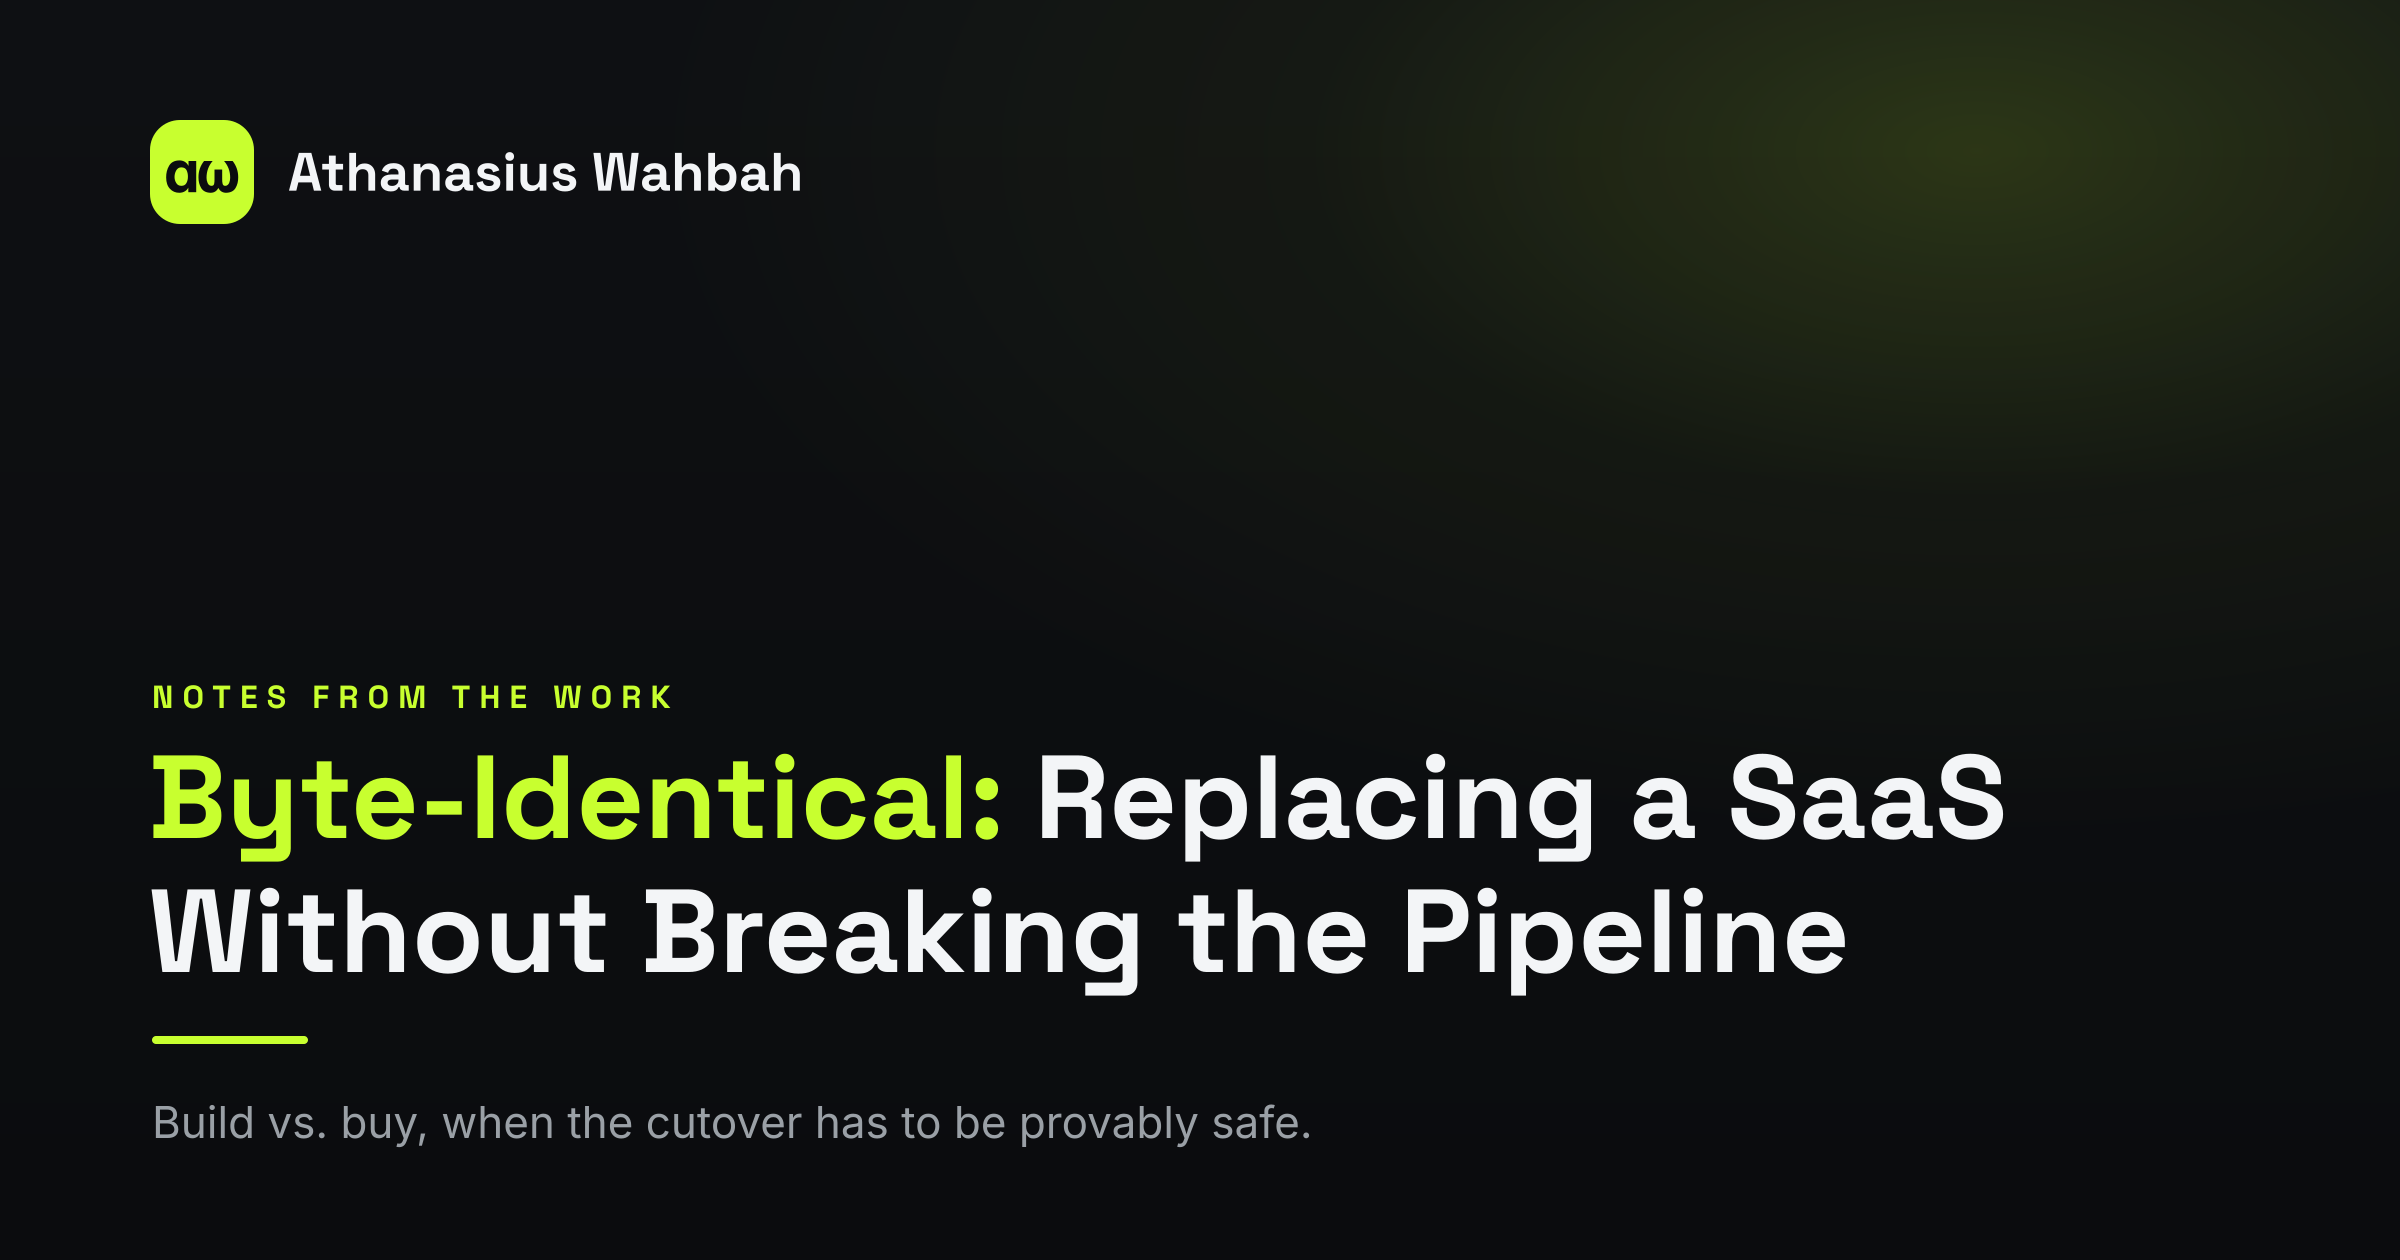
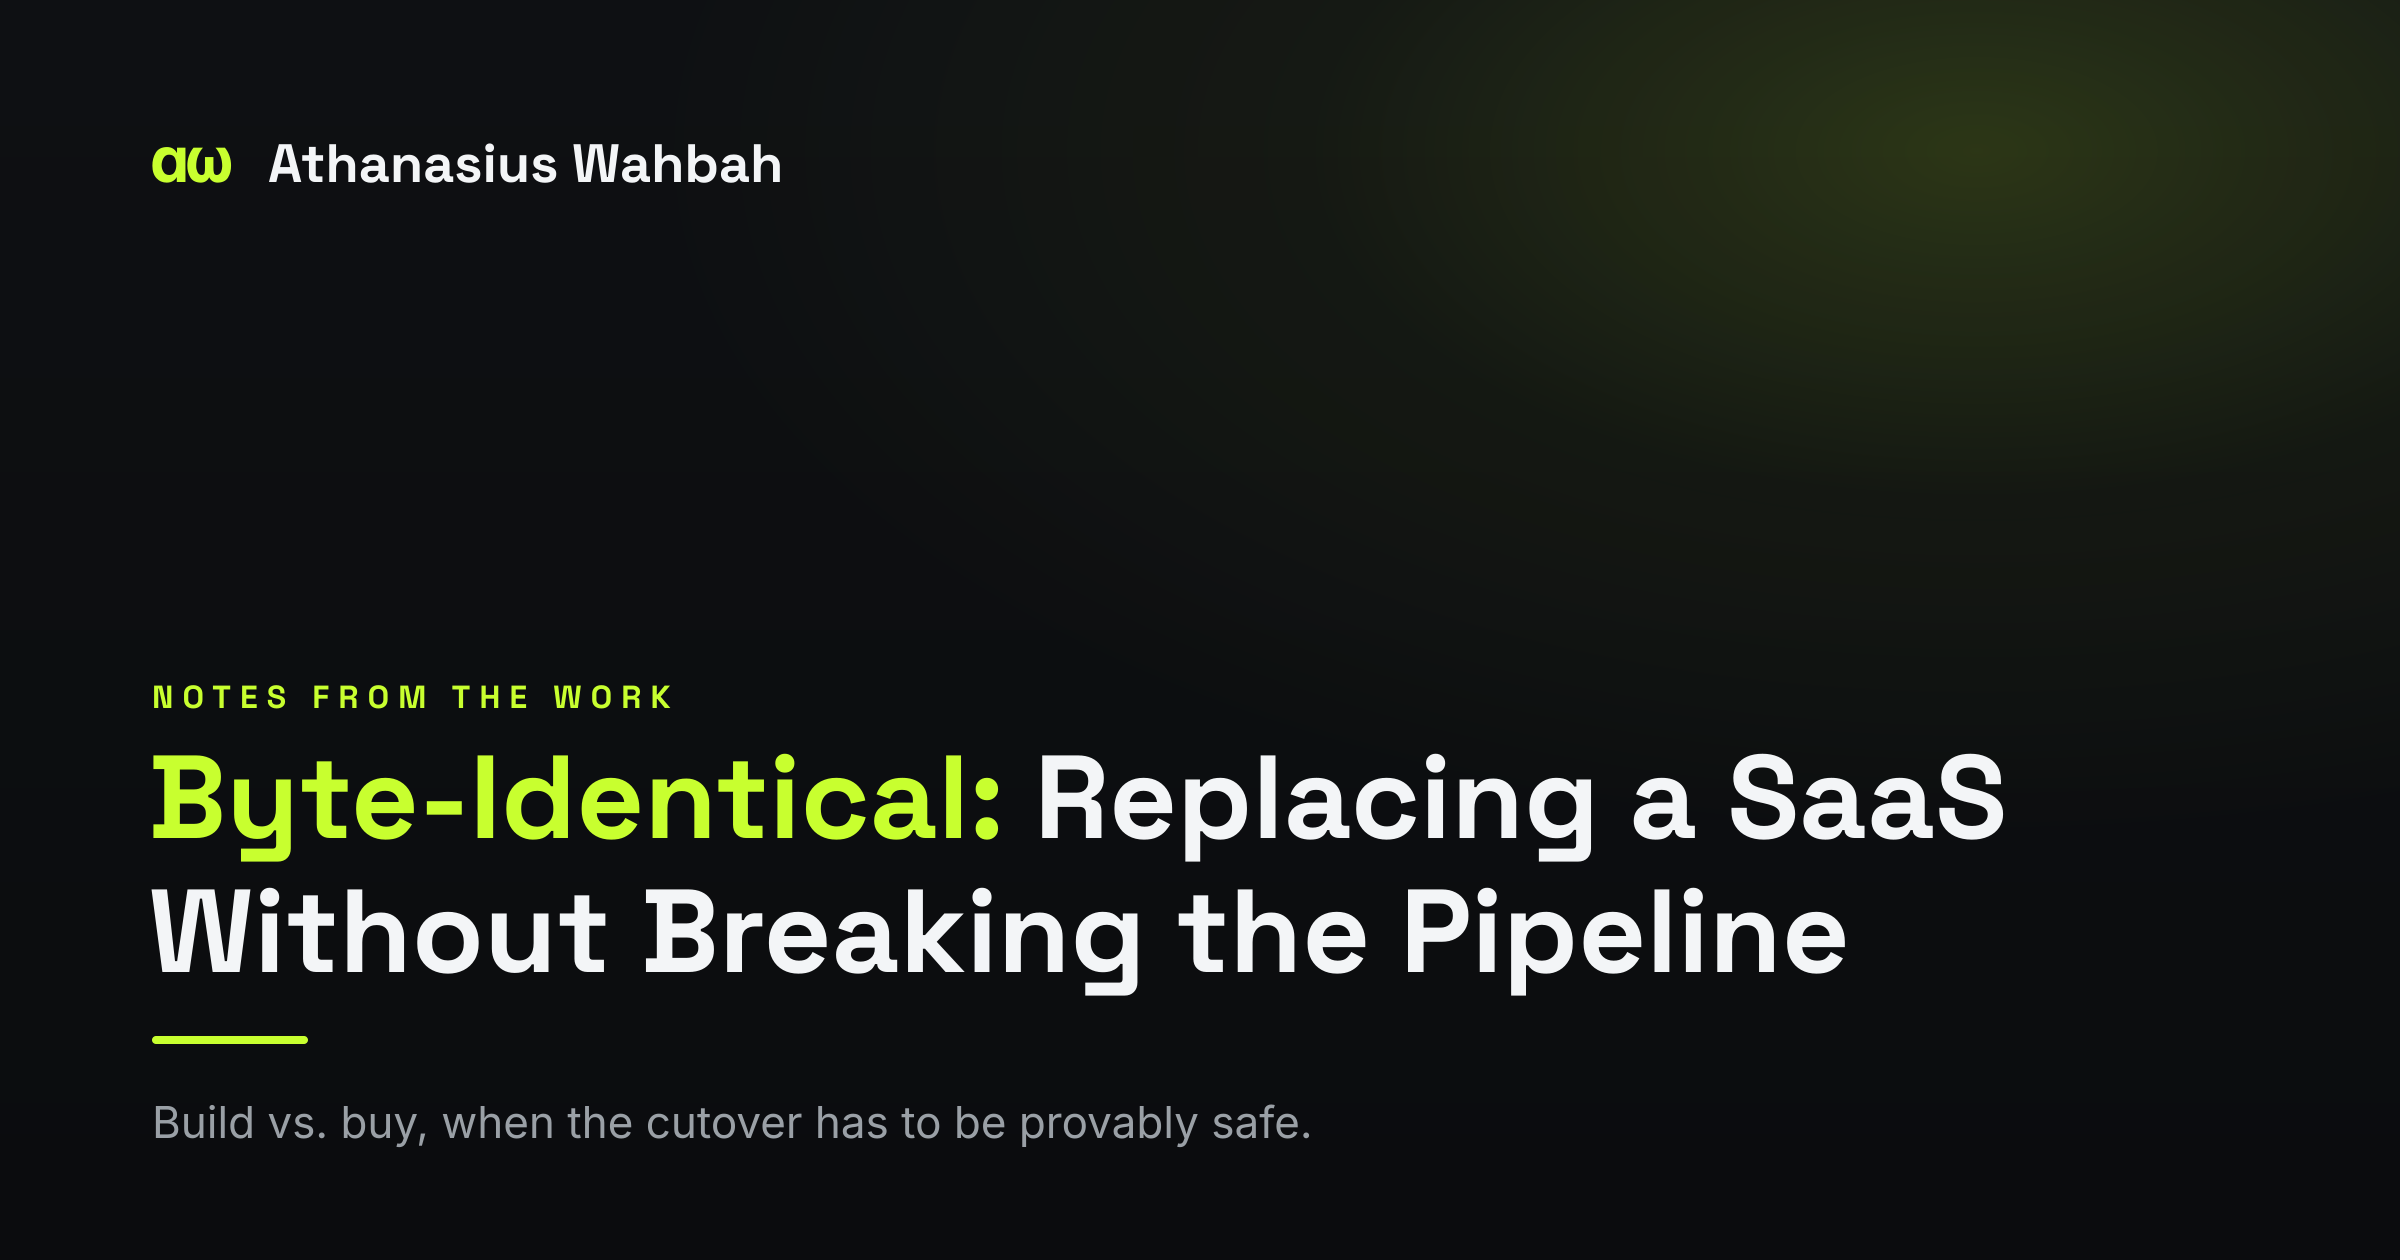
revert: bare lime αω lettermark (no tile), consistent lime on dark + light
Per preference: keep the mark as bare lime glyphs rather than dark-on-lime-tile.
Use the accent lime on both the dark hero and the scrolled light nav (drop the
olive scrolled override) so it stays one consistent logo. Regenerate the essay
OG card to match (bare lime glyphs). Cache-bust v4->v5.

Changed region(s): [[0.0625, 0.0929, 0.3438, 0.1857]]

diff --git a/style.css b/style.css
@@ -88,24 +88,16 @@ nav.site:not(.scrolled) :focus-visible {
 }
 
 /* ---------- brand mark (αω lettermark) ---------- */
-/* Lime tile + dark glyphs — matches the favicon lockup so the mark
-   reads identically on dark and light backgrounds (no green-swap). */
+/* Bare lime glyphs — same accent lime on dark AND light so the mark
+   reads as one consistent logo (no green-swap on the scrolled nav). */
 .mark {
   display: inline-flex;
-  align-items: center;
-  justify-content: center;
-  flex: none;
-  width: 1.55em;
-  height: 1.55em;
-  border-radius: 0.32em;
-  background: var(--accent);
-  color: var(--accent-ink);
+  align-items: baseline;
   font-family: var(--sans);
   font-weight: 700;
-  font-size: 0.74em;
-  letter-spacing: -0.06em;
+  letter-spacing: -0.07em;
+  color: var(--accent);
   line-height: 1;
-  text-indent: -0.03em; /* optical centering for the tight αω pair */
 }
 .mark::before {
   content: "\03B1\03C9"; /* αω */
@@ -179,7 +171,7 @@ nav.site .brand {
   letter-spacing: -0.01em;
   color: var(--d-ink);
   display: inline-flex;
-  align-items: center;
+  align-items: baseline;
   gap: 9px;
   transition: color 0.25s ease;
 }
@@ -850,7 +842,7 @@ footer.site .brand {
   color: var(--d-ink);
   font-size: 16px;
   display: inline-flex;
-  align-items: center;
+  align-items: baseline;
   gap: 9px;
 }
 footer.site .brand .mark {

diff --git a/contact.html b/contact.html
@@ -28,7 +28,7 @@
       content="https://athanasiuswahbah.com/headshot.jpg"
     />
     <meta name="twitter:card" content="summary_large_image" />
-    <link rel="stylesheet" href="/style.css?v=4" />
+    <link rel="stylesheet" href="/style.css?v=5" />
       <script type="text/javascript">(function(c,l,a,r,i,t,y){c[a]=c[a]||function(){(c[a].q=c[a].q||[]).push(arguments)};t=l.createElement(r);t.async=1;t.src="https://www.clarity.ms/tag/"+i;y=l.getElementsByTagName(r)[0];y.parentNode.insertBefore(t,y);})(window, document, "clarity", "script", "xeylablajo");</script>
   </head>
   <body>

diff --git a/posts/automating-the-identity-lifecycle.html b/posts/automating-the-identity-lifecycle.html
@@ -48,7 +48,7 @@
         "mainEntityOfPage": "https://athanasiuswahbah.com/posts/automating-the-identity-lifecycle.html"
       }
     </script>
-    <link rel="stylesheet" href="/style.css?v=4" />
+    <link rel="stylesheet" href="/style.css?v=5" />
       <script type="text/javascript">(function(c,l,a,r,i,t,y){c[a]=c[a]||function(){(c[a].q=c[a].q||[]).push(arguments)};t=l.createElement(r);t.async=1;t.src="https://www.clarity.ms/tag/"+i;y=l.getElementsByTagName(r)[0];y.parentNode.insertBefore(t,y);})(window, document, "clarity", "script", "xeylablajo");</script>
   </head>
   <body>

diff --git a/posts/lessons-from-incident-response.html b/posts/lessons-from-incident-response.html
@@ -50,7 +50,7 @@
         "mainEntityOfPage": "https://athanasiuswahbah.com/posts/lessons-from-incident-response.html"
       }
     </script>
-    <link rel="stylesheet" href="/style.css?v=4" />
+    <link rel="stylesheet" href="/style.css?v=5" />
       <script type="text/javascript">(function(c,l,a,r,i,t,y){c[a]=c[a]||function(){(c[a].q=c[a].q||[]).push(arguments)};t=l.createElement(r);t.async=1;t.src="https://www.clarity.ms/tag/"+i;y=l.getElementsByTagName(r)[0];y.parentNode.insertBefore(t,y);})(window, document, "clarity", "script", "xeylablajo");</script>
   </head>
   <body>

diff --git a/posts/conditional-access-that-works.html b/posts/conditional-access-that-works.html
@@ -50,7 +50,7 @@
         "mainEntityOfPage": "https://athanasiuswahbah.com/posts/conditional-access-that-works.html"
       }
     </script>
-    <link rel="stylesheet" href="/style.css?v=4" />
+    <link rel="stylesheet" href="/style.css?v=5" />
       <script type="text/javascript">(function(c,l,a,r,i,t,y){c[a]=c[a]||function(){(c[a].q=c[a].q||[]).push(arguments)};t=l.createElement(r);t.async=1;t.src="https://www.clarity.ms/tag/"+i;y=l.getElementsByTagName(r)[0];y.parentNode.insertBefore(t,y);})(window, document, "clarity", "script", "xeylablajo");</script>
   </head>
   <body>

diff --git a/posts/hybrid-to-cloud-only-identity.html b/posts/hybrid-to-cloud-only-identity.html
@@ -50,7 +50,7 @@
         "mainEntityOfPage": "https://athanasiuswahbah.com/posts/hybrid-to-cloud-only-identity.html"
       }
     </script>
-    <link rel="stylesheet" href="/style.css?v=4" />
+    <link rel="stylesheet" href="/style.css?v=5" />
       <script type="text/javascript">(function(c,l,a,r,i,t,y){c[a]=c[a]||function(){(c[a].q=c[a].q||[]).push(arguments)};t=l.createElement(r);t.async=1;t.src="https://www.clarity.ms/tag/"+i;y=l.getElementsByTagName(r)[0];y.parentNode.insertBefore(t,y);})(window, document, "clarity", "script", "xeylablajo");</script>
   </head>
   <body>

diff --git a/posts/build-vs-buy-internal-tools.html b/posts/build-vs-buy-internal-tools.html
@@ -51,7 +51,7 @@
         "mainEntityOfPage": "https://athanasiuswahbah.com/posts/build-vs-buy-internal-tools.html"
       }
     </script>
-    <link rel="stylesheet" href="/style.css?v=4" />
+    <link rel="stylesheet" href="/style.css?v=5" />
       <script type="text/javascript">(function(c,l,a,r,i,t,y){c[a]=c[a]||function(){(c[a].q=c[a].q||[]).push(arguments)};t=l.createElement(r);t.async=1;t.src="https://www.clarity.ms/tag/"+i;y=l.getElementsByTagName(r)[0];y.parentNode.insertBefore(t,y);})(window, document, "clarity", "script", "xeylablajo");</script>
   </head>
   <body>

diff --git a/index.html b/index.html
@@ -90,7 +90,7 @@
       href="https://fonts.googleapis.com/css2?family=Space+Grotesk:wght@400;500;700&family=Inter:wght@400;500;600&family=JetBrains+Mono:wght@400;500&display=swap"
       rel="stylesheet"
     />
-    <link rel="stylesheet" href="/style.css?v=4" />
+    <link rel="stylesheet" href="/style.css?v=5" />
     <script type="text/javascript">
       (function (c, l, a, r, i, t, y) {
         c[a] =

diff --git a/projects.html b/projects.html
@@ -28,7 +28,7 @@
       content="https://athanasiuswahbah.com/headshot.jpg"
     />
     <meta name="twitter:card" content="summary_large_image" />
-    <link rel="stylesheet" href="/style.css?v=4" />
+    <link rel="stylesheet" href="/style.css?v=5" />
     <script type="text/javascript">
       (function (c, l, a, r, i, t, y) {
         c[a] =

diff --git a/about.html b/about.html
@@ -25,7 +25,7 @@
       content="https://athanasiuswahbah.com/headshot.jpg"
     />
     <meta name="twitter:card" content="summary_large_image" />
-    <link rel="stylesheet" href="/style.css?v=4" />
+    <link rel="stylesheet" href="/style.css?v=5" />
     <script type="application/ld+json">
       {
         "@context": "https://schema.org",

diff --git a/experience.html b/experience.html
@@ -28,7 +28,7 @@
       content="https://athanasiuswahbah.com/headshot.jpg"
     />
     <meta name="twitter:card" content="summary_large_image" />
-    <link rel="stylesheet" href="/style.css?v=4" />
+    <link rel="stylesheet" href="/style.css?v=5" />
     <script type="application/ld+json">
       {
         "@context": "https://schema.org",

diff --git a/posts/byte-identical-saas-replacement.html b/posts/byte-identical-saas-replacement.html
@@ -57,7 +57,7 @@
         "mainEntityOfPage": "https://athanasiuswahbah.com/posts/byte-identical-saas-replacement.html"
       }
     </script>
-    <link rel="stylesheet" href="/style.css?v=4" />
+    <link rel="stylesheet" href="/style.css?v=5" />
     <script type="text/javascript">
       (function (c, l, a, r, i, t, y) {
         c[a] =
